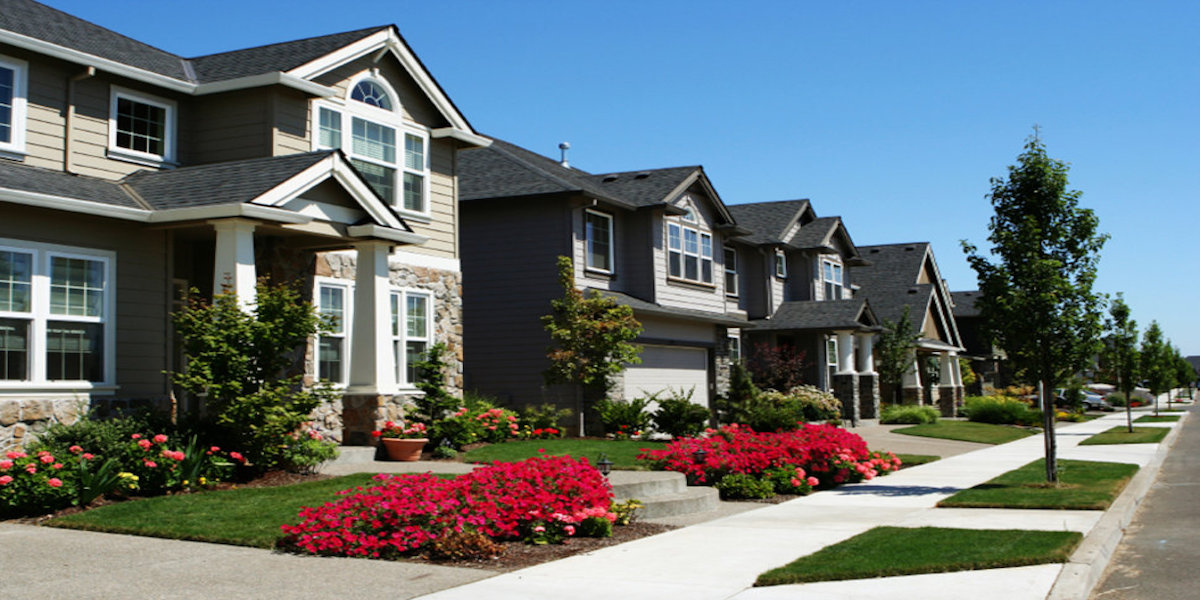
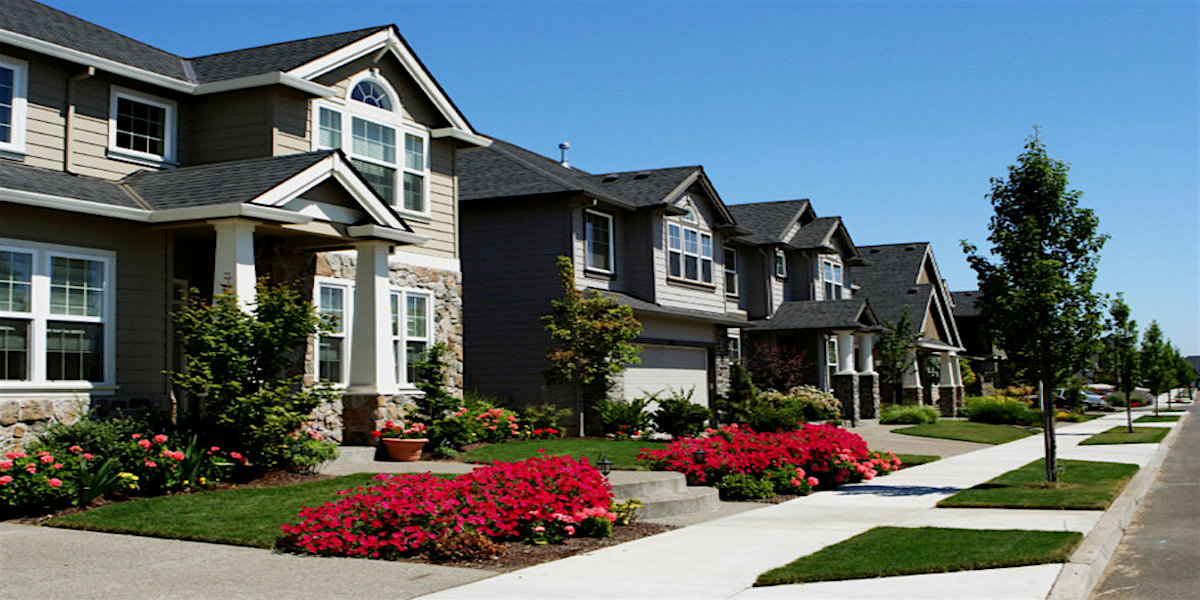
all yellow everything

diff --git a/public/css/style.css b/public/css/style.css
@@ -61,7 +61,7 @@ a:hover {
 	padding: 20px;
 	font-size: 30px;
 	margin-top:-15px;
-	color:#6D9C91;		
+	color:#f7b733;		
 }
 .navbar-brand h1:hover {
   background-color:#fff;
@@ -99,8 +99,8 @@ a:hover {
 }
 
 .nav-tabs > li > a:hover {
-  border-color: #eee #eee #6D9C91;
-  color: #6D9C91;
+  border-color: #eee #eee #f7b733;
+  color: #f7b733;
   border-radius:0;
   background-color:#f9f9f9;
   
@@ -110,7 +110,7 @@ a:hover {
 .nav-tabs > li.active > a:focus {
   color: #fff;
   cursor: default;
-  background-color: #6D9C91;
+  background-color: #f7b733;
   border: 0;
   border-bottom-color: transparent;
   cursor:pointer;  
@@ -148,15 +148,15 @@ a:hover {
 	position: absolute;
 	top: 50%;
 	width: 50px;
-	color:#6d9c91;
-	background:#6d9c91;
+	color:#f7b733;
+	background:#f7b733;
 	color:#fff;
 }
 
 #carousel-slider a i:hover {
-	background:#6d9c91;
+	background:#f7b733;
 	color:#fff;
-	border: 1px solid #6d9c91;
+	border: 1px solid #f7b733;
 }
 
 #carousel-slider 
@@ -202,7 +202,7 @@ a:hover {
 	margin-bottom:20px;
 	color:#fff;
 	padding:10px;
-	background:#6d9c91;
+	background:#f7b733;
 }
 
 @media (max-width: 767px) {
@@ -217,7 +217,7 @@ a:hover {
 .carousel-inner .form-inline .form-group button[type="livedemo"]{
 	padding:20px 60px;
 	font-size:20px;
-	background:#6d9c91;
+	background:#f7b733;
 	color:#fff;
 	border-radius:0;
 	border-color:#fff;
@@ -245,7 +245,7 @@ a:hover {
 .carousel-inner .form-inline .form-group button[type="getnow"]:hover {
 	color:#fff;
 	border-color:#fff;
-	background:#6d9c91;
+	background:#f7b733;
 	-webkit-transition: color 300ms, background-color 300ms;
   -moz-transition: color 300ms, background-color 300ms;
   -o-transition:  color 300ms, background-color 300ms;
@@ -263,7 +263,7 @@ a:hover {
 	
 }
 .content  span {
-	color:#6D9C91;
+	color:#f7b733;
 	text-transform:uppercase;
 
 }
@@ -277,7 +277,7 @@ a:hover {
 	
 }
 .breadcrumb h4 {
-	color:#6D9C91;
+	color:#f7b733;
 	text-transform:uppercase;
 	text-align:center;
 	font-size:20px;
@@ -288,7 +288,7 @@ a:hover {
 	padding:30px;	
 }
 .breadcrumbs h4 {
-	color:#6D9C91;
+	color:#f7b733;
 	text-transform:uppercase;
 	text-align:center;
 	font-size:20px;
@@ -327,7 +327,7 @@ a:hover {
 }
 .align-center:hover {
 	border-bottom: 30px solid transparent;
-	border-color:#6D9C91;
+	border-color:#f7b733;
 	margin-top:-5px;
 	-webkit-box-shadow: 1px 2px 2px 4px rgba(204,204,204,1);
 -moz-box-shadow: 1px 2px 2px 4px rgba(204,204,204,1);
@@ -340,11 +340,11 @@ box-shadow: 1px 2px 2px 4px rgba(204,204,204,1);
 .icon {
 	margin-top:30px;
 	margin-bottom:30px;
-	color:#6D9C91;
+	color:#f7b733;
 }
 
 .ficon i {
-	color:#6D9C91;
+	color:#f7b733;
 }
 /* --- Feature --- */
 .feature {
@@ -387,11 +387,11 @@ box-shadow: 1px 2px 2px 4px rgba(204,204,204,1);
 	
 	background-color:#eee;
 	border-color:#eee;
-	color:#6D9C91;
+	color:#f7b733;
 }
 .list-group-item.active:hover {
-	background-color:#6D9C91;
-	border-color:#6D9C91;
+	background-color:#f7b733;
+	border-color:#f7b733;
 }
 .list-group-item.active p.list-group-item-text {
 	color:#000;
@@ -476,7 +476,7 @@ box-shadow: 1px 2px 2px 4px rgba(204,204,204,1);
 }
 .panel-default > .panel-heading {
   color: #fff;
-  background-color: #6D9C91;
+  background-color: #f7b733;
   border-color: #eee;
 }
 .panel-default > .panel-heading + .panel-collapse > .panel-body {
@@ -520,7 +520,7 @@ box-shadow: 1px 2px 2px 4px rgba(204,204,204,1);
   color:#000;
 }
 .popular-tags h5 {
-	color:#6D9C91;
+	color:#f7b733;
 	margin-bottom:30px;
 	text-align:center;
 }
@@ -543,7 +543,7 @@ box-shadow: 1px 2px 2px 4px rgba(204,204,204,1);
 .popular-tags ul.tags li a:hover {
 	text-decoration:none;
 	color:#fff;
-	background-color:#6D9C91;
+	background-color:#f7b733;
 }
 
 /* --- Contact area --- */
@@ -552,11 +552,11 @@ form {
 	margin-bottom:50px;
 }
 label {
-	color:#6D9C91;
+	color:#f7b733;
 	font-size:14px;
 }
 .form-group button {
-	background-color:#6D9C91;
+	background-color:#f7b733;
 	color:#fff;
 }
 .form-control {	
@@ -608,7 +608,7 @@ address br {
 }
 
 .sub-footer {
-	 background-color: #6D9C91;
+	 background-color: #f7b733;
 }
 ul.social-network {
 	list-style:none;

diff --git a/public/landinghbrs.html b/public/landinghbrs.html
@@ -39,8 +39,6 @@
   
 <!--Anything above this line will not be in this file when it is handlebars ready-->
 
-
-   <div class="container">
     <div class="row">
       <div class="boxs">        
         <div class="col-md-6">
@@ -48,13 +46,15 @@
             <div class="align-center">
               <h4>Find A Service</h4>          
               <div class="icon">
-                <i class="fa fa-heart-o fa-3x"></i>
+
+                <i class="fa fa-search fa-5x"></i>
+
               </div>
               <p>
-               Voluptatem accusantium doloremque laudantium sprea totam rem aperiam.
+               Service providers in your neighborhood
               </p>
               <div class="ficon">
-                <a href="" alt="">Learn more</a> 
+                <!--<a href="" alt="">Learn more</a> -->
               </div>
             </div>
           </div>
@@ -64,17 +64,21 @@
             <div class="align-center">
               <h4>Add a Service</h4>       
               <div class="icon">
-                <i class="fa fa-desktop fa-3x"></i>
+
+                <i class="fa fa-plus fa-5x"></i>
+
               </div>
               <p>
-               Voluptatem accusantium doloremque laudantium sprea totam rem aperiam.
+               Would you like to be listed as a service provider?
               </p>
               <div class="ficon">
-                <a href="" alt="">Learn more</a> 
+               <!-- <a href="" alt="">Learn more</a> -->
               </div>
             </div>
           </div>
         </div>
+      </div>
+   </div>
 
   
 
@@ -99,7 +103,7 @@
                         </div>
                     </div>
                     
-                </div>
+               </div>
             </div>
     </footer>
   <!--end footer-->
